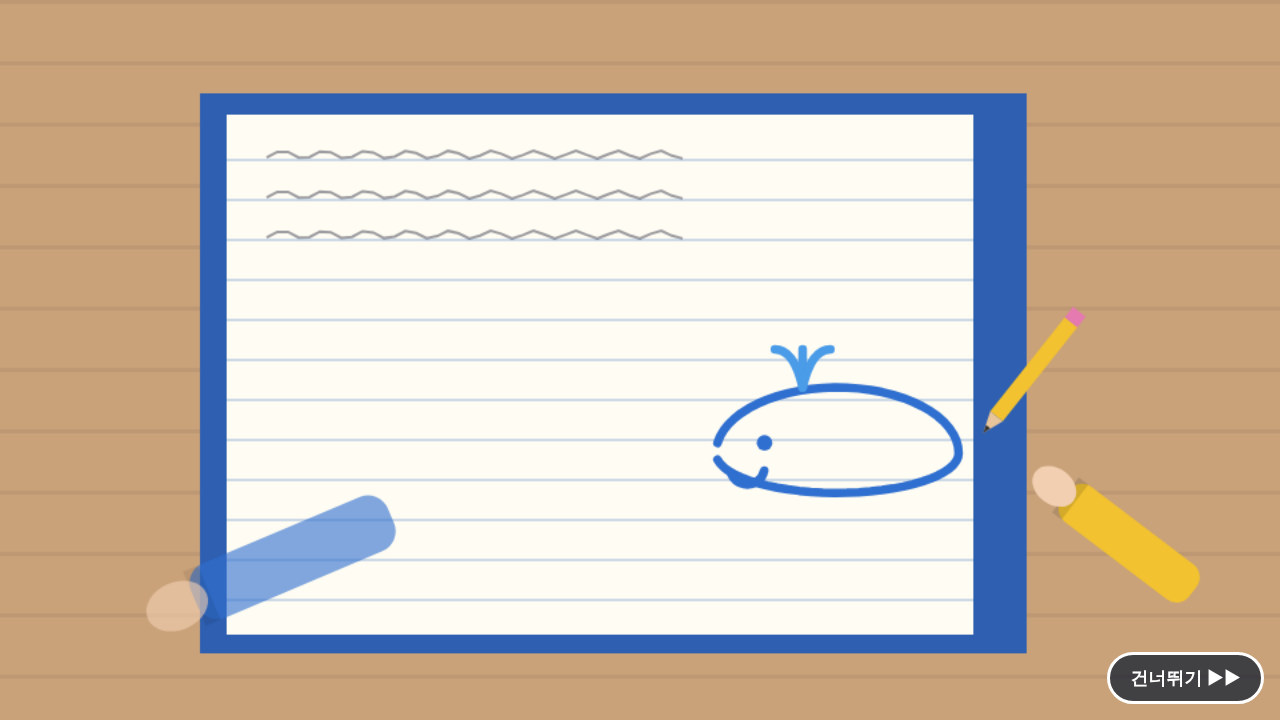
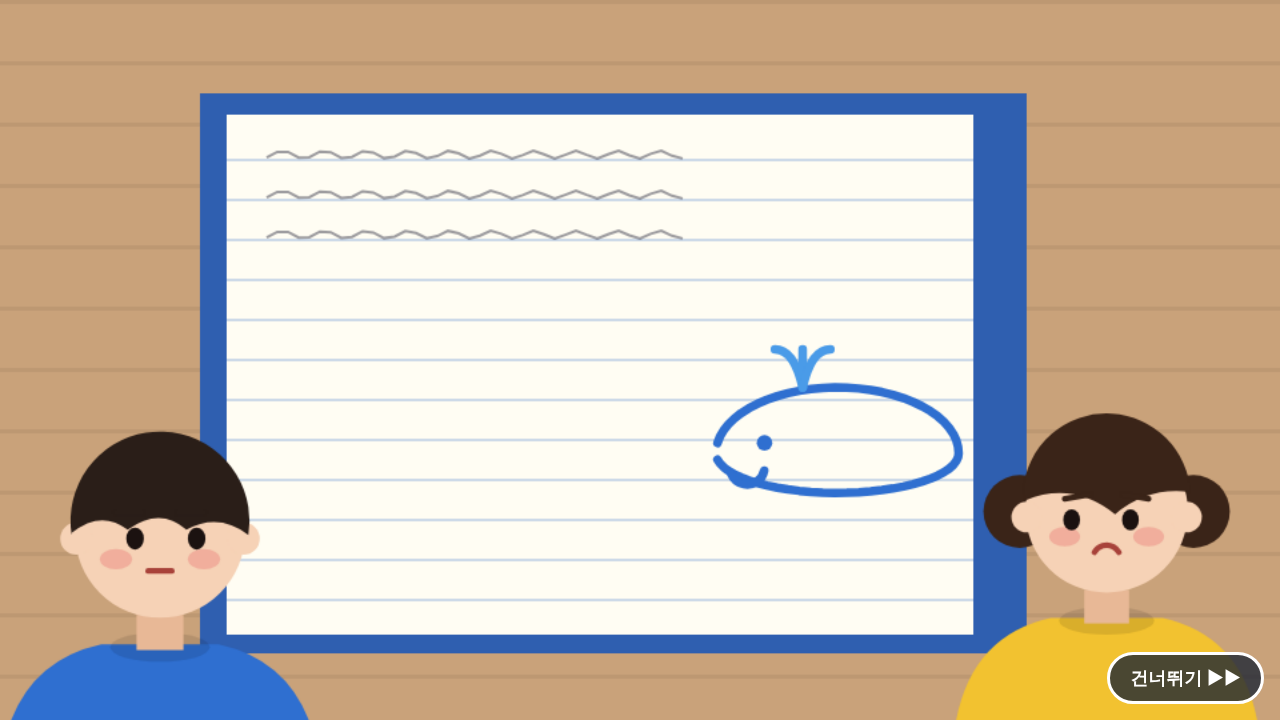
1장 점검 마무리: 끝 장면 스케치북을 가슴 앞에(웃는 얼굴이 보이게), 끝 장면에서 흐린 문 되돌림, 그림책 연필 뺌, 1장 시험을 자루 방식으로, 촬영·DEVLOG
Claude-Session: https://claude.ai/code/session_013wnimf1ouyZfR9DK6cFXAk

Changed region(s): [[0.0, 0.5806, 0.3125, 1.0], [0.75, 0.55, 1.0, 1.0], [0.75, 0.4278, 0.8438, 0.6111]]

diff --git a/src/game/chapter1.ts b/src/game/chapter1.ts
@@ -601,16 +601,18 @@ export function startChapter1(models: Models, opts?: StoryOptions): void {
     for (const [id, g] of gifts) if (id !== SACK) g.v.scale.setScalar(Math.max(0.001, (1 - take) * (g.v.userData.baseScale as number)));
     peekFrame.style.display = 'none';
     for (const h of hands) h.visible = false;
+    fader.update([], frame); // 놀이 중 흐려 둔 담·집을 되돌린다(끝 장면 화면 옆에 반투명 유령이 남지 않게)
     document.body.classList.add('cutscene');
     // 유나: 창가로 돌아와 앉는다 → 그린다 → 든다
     space.setGaze(t < 1.6 ? 'away' : t < 2.4 ? 'turn' : 'look', t < 1.6 ? 0 : sg(1.6, 2.4), t);
     book.visible = t > 2.0;
     drawBook(1); // 다 그린 고래
+    // 책상에 눕혀 둔 스케치북을 세워 가슴 앞에 펼쳐 보인다(얼굴을 가리지 않게 턱 아래까지만: 웃는 얼굴 + 다 그린 고래)
     const lift = ez(sg(3.6, 4.4));
     const base = space.yunaPlaceholder.position;
-    book.position.set(0, base.y + 0.35 + lift * 1.15, 1.5 * 0.75 + 0.05);
+    book.position.set(0, base.y + 0.28 + lift * 0.06, 1.5 * 0.75 + 0.05);
     book.rotation.set(-1.0 * (1 - lift), 0, 0);
-    book.scale.setScalar(0.6 + 0.4 * ez(sg(2.0, 2.6)) + 0.15 * lift);
+    book.scale.setScalar(0.55 + 0.25 * ez(sg(2.0, 2.6)) + 0.06 * lift);
     if (lift > 0) space.yunaPlaceholder.position.y = base.y + Math.abs(Math.sin(t * 7)) * 0.12 * lift;
     // 사진기: 지금 화면에서 창 앞으로
     const k = ez(sg(0, 1.4));

diff --git a/tests/review/ch1.spec.ts b/tests/review/ch1.spec.ts
@@ -38,13 +38,22 @@ test('1장 장면', async ({ page }) => {
     await page.waitForTimeout(1800);
     await page.screenshot({ path: `${OUT}/${name}.png` });
   }
-  // 지우 지도: 빈손 1P가 집을 것 없는 데서 E
-  await hook(page, 'debugPlace', 'p0', 15, 0, Math.PI);
+  // 지우 지도: 빈손 2P가 집을 것 없는 데서 Enter(1P는 자루를 멨다)
+  await hook(page, 'debugPlace', 'p0', 13.8, 0.8, Math.PI);
+  await hook(page, 'debugPlace', 'p1', 15, 0, Math.PI);
   await page.waitForTimeout(800);
-  await page.keyboard.press('KeyE');
+  await page.keyboard.press('Enter');
   await page.waitForTimeout(1500);
   await page.screenshot({ path: `${OUT}/j_map.png` });
+  await page.keyboard.press('Enter');
+  // 현관 발판에서 자루를 풀어 두 선물을 꺼낸다
+  await hook(page, 'setTime', 0.1);
+  await hook(page, 'debugPlace', 'p0', 49.4, 0.2, Math.PI * 1.25);
+  await hook(page, 'debugPlace', 'p1', 47.6, 2.2, Math.PI * 1.25);
+  await page.waitForTimeout(1200);
   await page.keyboard.press('KeyE');
+  await page.waitForTimeout(1500);
+  await page.screenshot({ path: `${OUT}/j_unpacked.png` });
   // 끝 장면
   await hook(page, 'debugWin');
   for (const t of [0.5, 2.5, 4.5, 6.5, 8.5, 10.5]) {

diff --git a/src/ui/storybook.ts b/src/ui/storybook.ts
@@ -262,10 +262,9 @@ export function drawStory(g: CanvasRenderingContext2D, t: number, W = 960, H = 5
     }
     // 다 그린 고래(종이 끝이라 꼬리 자리가 없다)
     drawWhale(g, 628, 340, 1.3, 0.78, '#2f6fd0', false);
-    // 유나: 오른쪽 아래에서 고래를 보며 시무룩(연필을 쥔 채)
+    // 유나: 오른쪽 아래에서 고래를 보며 시무룩(연필은 들지 않는다: 얼굴을 가로질러 어색했다)
     const inK = ease(seg(t, [0, 0.8]));
     drawPerson(g, YUNA_2D, 830, 560 + (1 - inK) * 120, 1.05, { mood: t > 1.6 ? -1 : 0, look: -1 });
-    pencil(g, 760, 470, -0.9);
     // 지우: 왼쪽 아래에서 들어와 유나를 본다
     const stopK = ease(seg(t, STORY.stop));
     if (stopK > 0) drawPerson(g, JIWOO_2D, 120, 560 + (1 - stopK) * 160, 1.1, { mood: 0, look: 1 });
